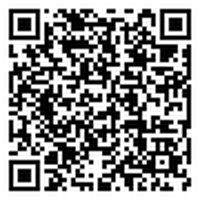
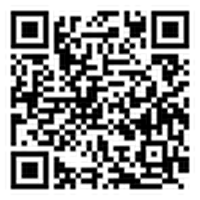
fix: switch main entry to GitHub Pages; update QR defaults and README; keep jsDelivr CDN for assets

diff --git a/generate_qr.py b/generate_qr.py
@@ -21,7 +21,7 @@ import sys
 
 import qrcode
 
-DEFAULT_LINK = "https://ericzhou_math.gitee.io/blood-test-dashboard/"
+DEFAULT_LINK = "https://ericzhou-math.github.io/blood-test-dashboard/"
 
 
 def make_qr(link: str, size: int = 200):

diff --git a/README.md b/README.md
@@ -2,10 +2,10 @@
 
 ## 🔗 国内快速访问
 推荐用手机扫描下方二维码，或直接访问链接：
-`https://ericzhou_math.gitee.io/blood-test-dashboard/`
+`https://ericzhou-math.github.io/blood-test-dashboard/`
 ![项目访问二维码](https://cdn.jsdelivr.net/gh/EricZhou-math/blood-test-dashboard@main/qrcode.png?v=20251022)
 - 备用：直接嵌入Base64见文件 `qrcode_base64.txt`
-> 说明：jsDelivr 不渲染 HTML 页面，作为资源 CDN 较快；入口请使用上方 Gitee Pages 或 RawGitHack。
+> 说明：jsDelivr 不渲染 HTML 页面，作为资源 CDN 较快；入口请使用上方 GitHub Pages 或 RawGitHack。
 > RawGitHack 备用入口（可渲染 HTML）：`https://raw.githack.com/EricZhou-math/blood-test-dashboard/main/index.html`
 
 ## 项目简介
@@ -31,7 +31,7 @@
 5. 查看图表和表格中的数据变化
 
 ### 生成可分享二维码
-- 默认链接（稳定）：`https://ericzhou_math.gitee.io/blood-test-dashboard/`
+- 默认链接（稳定）：`https://ericzhou-math.github.io/blood-test-dashboard/`
 - 一键生成：
   ```bash
   cd blood-test-dashboard
@@ -74,7 +74,7 @@
 
 ## 二维码预览
 
-直接扫码访问仪表盘（默认指向 Gitee Pages 主入口）：
+直接扫码访问仪表盘（默认指向 GitHub Pages 主入口）：
 
 ![血常规仪表盘二维码](https://cdn.jsdelivr.net/gh/EricZhou-math/blood-test-dashboard@main/qrcode.png?v=20251022)
 
